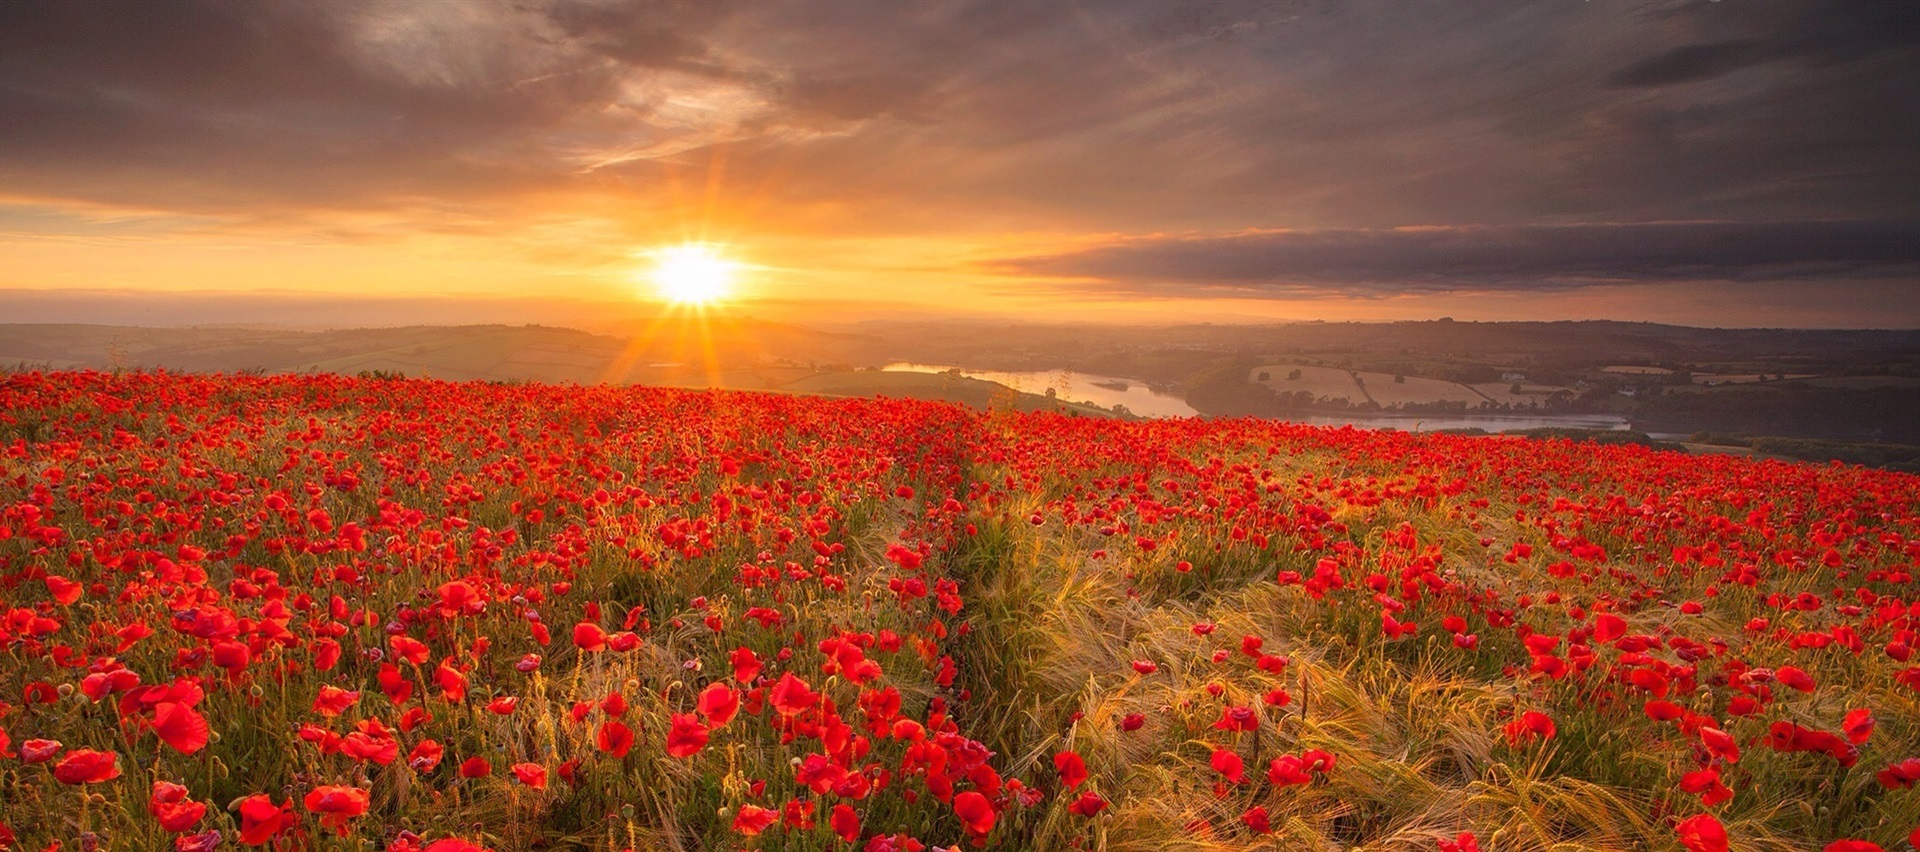
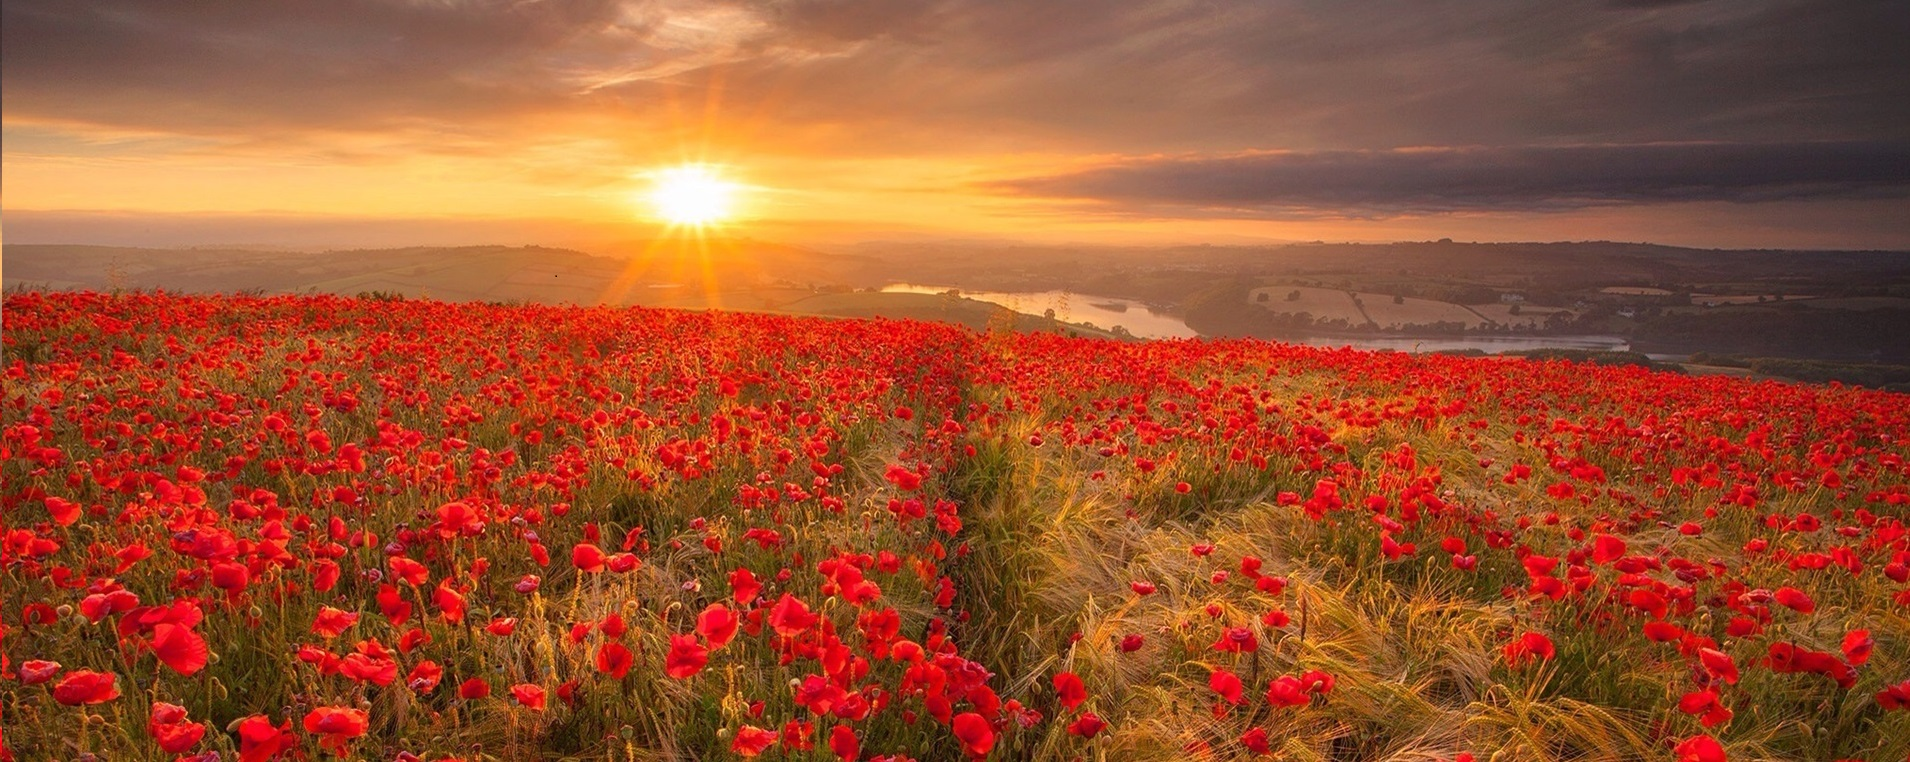
updated

diff --git a/side1.html b/side1.html
@@ -27,12 +27,16 @@
         z-index: 3;
         right: 2%;
     }
+    body {
+        overflow-y: hidden; /* Hide vertical scrollbar */
+        overflow-x: hidden; /* Hide horizontal scrollbar */
+    }
 </style>
 <body>
 
 <!-- Header -->
-<header class="w3-display-container w3-content w3-wide" style="max-width:1500px;" id="home">
-    <img class="w3-image" src="/res/red.jpg" alt="Architecture" width="1500" height="400">
+<header class="w3-display-container w3-content w3-wide" style="max-width:100%;" id="home">
+    <img class="w3-image" src="/res/red.jpg" alt="Architecture" style="width:100%;">
     <div class="w3-display-middle w3-margin-top w3-center">
         <h1 class="w3-xxlarge w3-text-white"><b>Ny med diabetes?</b></h1>
         <h2 class="w3-xxlarge w3-text-white">
@@ -43,11 +47,10 @@
 
 <!-- Navbar (sit on top) -->
 <div class="w3-top">
-    <div class="w3-bar w3-wide w3-padding w3-card"  style="background-color: #DD020E">
-        <a href="#home" class="w3-bar-item w3-button"><b>P2</b> DTU DEMO</a>
+    <div class="w3-bar w3-wide w3-padding w3-card"  style="background-color: #FFFFFF; opacity: 0.9;">
+        <a href="index.html" class="w3-bar-item w3-button" style="max-width:12%; opacity: 1;"><img  src="/res/red.png" style="width:25%">    DTU DEMO</a>
         <!-- Float links to the right. Hide them on small screens -->
         <div class="w3-right w3-hide-small">
-            <a href="index.html" class="w3-bar-item w3-button">Home</a>
             <a href="side1.html" class="w3-bar-item w3-button">Ny med diabetes</a>
             <a href="side2.html" class="w3-bar-item w3-button">Inspiration</a>
             <a href="side3.html" class="w3-bar-item w3-button">Mere viden</a>
@@ -61,56 +64,58 @@
         <h3 class="w3-border-bottom w3-border-light-grey w3-padding-16">Diabetesforeningens videoer</h3>
     </div>
 
-    <div class="w3-row-padding w3-grayscale">
+    <div class="w3-row-padding">
         <div class="w3-col l3 m6 w3-margin-bottom">
             <img src="/res/side1vids/1.jpg" alt="John" style="width:100%">
             <h3>Hvad er diabetes?</h3>
             <p>Phasellus eget enim eu lectus faucibus vestibulum. Suspendisse sodales pellentesque elementum.</p>
-            <p><button class="w3-button w3-light-grey w3-block">Contact</button></p>
+            <a href="indholdExample.html">
+                <p><button class="w3-button w3-block" style="background-color: #DD020E;color: #FFFFFF;">Se mere</button></p>
+            </a>
         </div>
         <div class="w3-col l3 m6 w3-margin-bottom">
             <img src="/res/side1vids/2.jpg" alt="Jane" style="width:100%">
             <h3>Blodsukker måling</h3>
             <p>Phasellus eget enim eu lectus faucibus vestibulum. Suspendisse sodales pellentesque elementum.</p>
-            <p><button class="w3-button w3-light-grey w3-block">Contact</button></p>
+            <p><button class="w3-button w3-block" style="background-color: #DD020E;color: #FFFFFF;">Se mere</button></p>
         </div>
         <div class="w3-col l3 m6 w3-margin-bottom">
             <img src="/res/side1vids/3.jpg" alt="Mike" style="width:100%">
             <h3>Hvordan bruger jeg apperatet?</h3>
             <p>Phasellus eget enim eu lectus faucibus vestibulum. Suspendisse sodales pellentesque elementum.</p>
-            <p><button class="w3-button w3-light-grey w3-block">Contact</button></p>
+            <p><button class="w3-button w3-block" style="background-color: #DD020E;color: #FFFFFF;">Se mere</button></p>
         </div>
         <div class="w3-col l3 m6 w3-margin-bottom">
             <img src="/res/side1vids/4.jpg" alt="Dan" style="width:89%">
             <h3>Kost & blodsukker</h3>
             <p>Phasellus eget enim eu lectus faucibus vestibulum. Suspendisse sodales pellentesque elementum.</p>
-            <p><button class="w3-button w3-light-grey w3-block">Contact</button></p>
+            <p><button class="w3-button w3-block" style="background-color: #DD020E;color: #FFFFFF;">Se mere</button></p>
         </div>
     </div>
-    <div class="w3-row-padding w3-grayscale">
+    <div class="w3-row-padding">
         <div class="w3-col l3 m6 w3-margin-bottom">
             <img src="/res/side1vids/5.jpg" alt="John" style="width:100%">
             <h3>Motion og blodsukker</h3>
             <p>Phasellus eget enim eu lectus faucibus vestibulum. Suspendisse sodales pellentesque elementum.</p>
-            <p><button class="w3-button w3-light-grey w3-block">Contact</button></p>
+            <p><button class="w3-button w3-block" style="background-color: #DD020E;color: #FFFFFF;">Se mere</button></p>
         </div>
         <div class="w3-col l3 m6 w3-margin-bottom">
             <img src="/res/side1vids/6.jpg" alt="Jane" style="width:100%">
             <h3>Blodsukker svingninger</h3>
             <p>Phasellus eget enim eu lectus faucibus vestibulum. Suspendisse sodales pellentesque elementum.</p>
-            <p><button class="w3-button w3-light-grey w3-block">Contact</button></p>
+            <p><button class="w3-button w3-block" style="background-color: #DD020E;color: #FFFFFF;">Se mere</button></p>
         </div>
         <div class="w3-col l3 m6 w3-margin-bottom">
             <img src="/res/side1vids/7.jpg" alt="Mike" style="width:100%">
             <h3>Søvn og blodsukker</h3>
             <p>Phasellus eget enim eu lectus faucibus vestibulum. Suspendisse sodales pellentesque elementum.</p>
-            <p><button class="w3-button w3-light-grey w3-block">Contact</button></p>
+            <p><button class="w3-button w3-block" style="background-color: #DD020E;color: #FFFFFF;">Se mere</button></p>
         </div>
         <div class="w3-col l3 m6 w3-margin-bottom">
             <img src="/res/side1vids/8.jpg" alt="Dan" style="width:89%">
             <h3>Vejen frem</h3>
             <p>Phasellus eget enim eu lectus faucibus vestibulum. Suspendisse sodales pellentesque elementum.</p>
-            <p><button class="w3-button w3-light-grey w3-block">Contact</button></p>
+            <p><button class="w3-button w3-block" style="background-color: #DD020E;color: #FFFFFF;">Se mere</button></p>
         </div>
     </div>
     <!-- End page content -->
@@ -125,26 +130,26 @@
     <div class="w3-row-padding">
         <div class="w3-col l3 m6 w3-margin-bottom">
             <div class="w3-display-container">
-                <div class="w3-display-topleft w3-black w3-padding">10 år med diabetes</div>
-                <img src="/w3images/house2.jpg" alt="House" style="width:99%">
+                <div class="w3-display-topleft w3-padding" style="background-color: #DD020E;color: #FFFFFF;">10 år med diabetes</div>
+                <img src="/res/inspiration/i1.jpg" alt="House" style="width:80%">
             </div>
         </div>
         <div class="w3-col l3 m6 w3-margin-bottom">
             <div class="w3-display-container">
-                <div class="w3-display-topleft w3-black w3-padding">Diabetes i fællesskab</div>
-                <img src="/w3images/house5.jpg" alt="House" style="width:99%">
+                <div class="w3-display-topleft w3-padding" style="background-color: #DD020E;color: #FFFFFF;">Diabetes i fællesskab</div>
+                <img src="/res/inspiration/i2.jpg" alt="House" style="width:99%">
             </div>
         </div>
         <div class="w3-col l3 m6 w3-margin-bottom">
             <div class="w3-display-container">
-                <div class="w3-display-topleft w3-black w3-padding">Du er ikke alene</div>
-                <img src="/w3images/house4.jpg" alt="House" style="width:99%">
+                <div class="w3-display-topleft w3-padding" style="background-color: #DD020E;color: #FFFFFF;">Du er ikke alene</div>
+                <img src="/res/inspiration/i3.jpg" alt="House" style="width:99%">
             </div>
         </div>
         <div class="w3-col l3 m6 w3-margin-bottom">
             <div class="w3-display-container">
-                <div class="w3-display-topleft w3-black w3-padding">Min rejse gennem diabetes</div>
-                <img src="/w3images/house3.jpg" alt="House" style="width:99%">
+                <div class="w3-display-topleft w3-padding" style="background-color: #DD020E;color: #FFFFFF;">Min rejse gennem diabetes</div>
+                <img src="/res/inspiration/i4.jpg" alt="House" style="width:99%">
             </div>
         </div>
     </div>
@@ -163,61 +168,58 @@
             <img class="imgA1" src="/res/blod.png" alt="John" style="width:100%">
             <h3>Intro forløb med blodsukker måling</h3>
             <p>Phasellus eget enim eu lectus faucibus vestibulum. Suspendisse sodales pellentesque elementum.</p>
-            <p><button class="w3-button w3-light-grey w3-block">Contact</button></p>
+            <p><button class="w3-button w3-block" style="background-color: #DD020E;color: #FFFFFF;">Contact</button></p>
         </div>
         <div class="w3-col l3 m6 w3-margin-bottom" id="parent">
             <img class="imgB1" src="/res/red.png" alt="John" style="width:20%">
             <img src="/res/diafocus.png" alt="Jane" style="width:100%">
             <h3>Anbefalede apps</h3>
             <p>Phasellus eget enim eu lectus faucibus vestibulum. Suspendisse sodales pellentesque elementum.</p>
-            <p><button class="w3-button w3-light-grey w3-block">Contact</button></p>
+            <p><button class="w3-button w3-block" style="background-color: #DD020E;color: #FFFFFF;">Contact</button></p>
         </div>
         <div class="w3-col l3 m6 w3-margin-bottom" id="parent">
             <img class="imgB1" src="/res/red.png" alt="John" style="width:20%">
             <img src="/res/webinar.jpg" alt="Mike" style="width:100%">
             <h3>Webinar</h3>
             <p>Phasellus eget enim eu lectus faucibus vestibulum. Suspendisse sodales pellentesque elementum.</p>
-            <p><button class="w3-button w3-light-grey w3-block">Contact</button></p>
+            <p><button class="w3-button w3-block" style="background-color: #DD020E;color: #FFFFFF;">Contact</button></p>
         </div>
         <div class="w3-col l3 m6 w3-margin-bottom" id="parent">
             <img class="imgB1" src="/res/red.png" alt="John" style="width:20%">
             <img src="/res/kort.jpg" alt="Dan" style="width:100%">
             <h3>Oversigt over lokale tilbud</h3>
             <p>Phasellus eget enim eu lectus faucibus vestibulum. Suspendisse sodales pellentesque elementum.</p>
-            <p><button class="w3-button w3-light-grey w3-block">Contact</button></p>
+            <p><button class="w3-button w3-block" style="background-color: #DD020E;color: #FFFFFF;">Contact</button></p>
         </div>
         <div class="w3-col l3 m6 w3-margin-bottom" id="parent">
             <img class="imgB1" src="/res/red.png" alt="John" style="width:20%">
             <img src="/res/mentor.jpg" alt="Dan" style="width:100%">
             <h3>Mentor ordningen</h3>
             <p>Phasellus eget enim eu lectus faucibus vestibulum. Suspendisse sodales pellentesque elementum.</p>
-            <p><button class="w3-button w3-light-grey w3-block">Contact</button></p>
+            <p><button class="w3-button w3-block" style="background-color: #DD020E;color: #FFFFFF;">Contact</button></p>
         </div>
         <div class="w3-col l3 m6 w3-margin-bottom" id="parent">
             <img class="imgB1" src="/res/red.png" alt="John" style="width:20%">
             <img src="/res/Untitled2.png" alt="Dan" style="width:100%">
             <h3>Rådvigningen</h3>
             <p>Phasellus eget enim eu lectus faucibus vestibulum. Suspendisse sodales pellentesque elementum.</p>
-            <p><button class="w3-button w3-light-grey w3-block">Contact</button></p>
+            <p><button class="w3-button w3-block" style="background-color: #DD020E;color: #FFFFFF;">Contact</button></p>
         </div>
         <div class="w3-col l3 m6 w3-margin-bottom" id="parent">
             <img class="imgB1" src="/res/red.png" alt="John" style="width:20%">
-            <img src="/w3images/team4.jpg" alt="Dan" style="width:100%">
+            <img src="/res/red.png" alt="Dan" style="width:100%">
             <h3>Andre resourcer</h3>
             <p>Phasellus eget enim eu lectus faucibus vestibulum. Suspendisse sodales pellentesque elementum.</p>
-            <p><button class="w3-button w3-light-grey w3-block">Contact</button></p>
+            <p><button class="w3-button w3-block" style="background-color: #DD020E;color: #FFFFFF;">Contact</button></p>
         </div>
     </div>
     <!-- End page content -->
 </div>
 
 
-
-
-
 <!-- Footer -->
-<footer class="w3-center w3-black w3-padding-16">
-    <p>Alternativ introforløb diabetes koncept.</p>
+<footer class="w3-center w3-padding-16" style="background-color: #DD020E">
+    <p style="color: #FFFFFF;font-weight: bold;">Alternativ introforløb diabetes koncept.</p>
 </footer>
 
 </body>

diff --git a/indholdExample.html b/indholdExample.html
@@ -1,0 +1,87 @@
+<!DOCTYPE html>
+<html xmlns="http://www.w3.org/1999/html">
+<title>W3.CSS Template</title>
+<meta charset="UTF-8">
+<meta name="viewport" content="width=device-width, initial-scale=1">
+<link rel="stylesheet" href="https://www.w3schools.com/w3css/4/w3.css">
+<style>
+    .third {
+        width: 33%;
+    }
+
+
+
+    .column {
+        float: left;
+        width: 33.33%;
+        padding: 10px;
+        height: 300px; /* Should be removed. Only for demonstration */
+    }
+
+    #parent{position: relative}
+    .imgA1 {
+        z-index: 1;
+    }
+    .imgB1 {
+        position: absolute;
+        z-index: 3;
+        right: 44%;
+        top : 40%
+    }
+</style>
+<body>
+
+<!-- Navbar (sit on top) -->
+<div class="w3-top">
+    <div class="w3-bar w3-wide w3-padding w3-card"  style="background-color: #FFFFFF; opacity: 0.9;">
+        <a href="index.html" class="w3-bar-item w3-button" style="max-width:12%; opacity: 1;"><img  src="/res/red.png" style="width:25%">    DTU DEMO</a>
+        <!-- Float links to the right. Hide them on small screens -->
+        <div class="w3-right w3-hide-small">
+            <a href="side1.html" class="w3-bar-item w3-button">Ny med diabetes</a>
+            <a href="side2.html" class="w3-bar-item w3-button">Inspiration</a>
+            <a href="side3.html" class="w3-bar-item w3-button">Mere viden</a>
+        </div>
+    </div>
+</div>
+
+<div style="height: 40px;">&nbsp;</div>
+<!-- About Section -->
+<div class="w3-content w3-padding" style="max-width:1000px">
+    <div class="w3-container w3-padding-32" id="about">
+        <h3 class="w3-border-bottom w3-border-light-grey w3-padding-16">Intro forløb med blodsukker måling</h3>
+        <img class="imgB1" src="/res/side1vids/play.png" alt="John" style="width:10%">
+        <img class="imgA1" src="/res/side1vids/1.jpg" alt="John" style="width:100%">
+        <h3 class="w3-border-bottom w3-border-light-grey w3-padding-16">Information om blodsukker</h3>
+        <p>Lorem ipsum dolor sit amet, consectetur adipiscing elit, sed do eiusmod tempor incididunt ut labore et dolore magna aliqua. Ut enim ad minim veniam, quis nostrud exercitation ullamco laboris nisi ut aliquip ex ea commodo consequat. Excepteur sint
+            occaecat cupidatat non proident, sunt in culpa qui officia deserunt mollit anim id est laborum consectetur adipiscing elit, sed do eiusmod tempor incididunt ut labore et dolore magna aliqua. Ut enim ad minim veniam, quis nostrud exercitation ullamco
+            laboris nisi ut aliquip ex ea commodo consequat.
+        </p>
+        </br>
+        <p>Lorem ipsum dolor sit amet, consectetur adipiscing elit, sed do eiusmod tempor incididunt ut labore et dolore magna aliqua. Ut enim ad minim veniam, quis nostrud exercitation ullamco laboris nisi ut aliquip ex ea commodo consequat. Excepteur sint
+            occaecat cupidatat non proident, sunt in culpa qui officia deserunt mollit anim id est laborum consectetur adipiscing elit, sed do eiusmod tempor incididunt ut labore et dolore magna aliqua. Ut enim ad minim veniam, quis nostrud exercitation ullamco
+            laboris nisi ut aliquip ex ea commodo consequat.
+        </p>
+        </br>
+        <p>Lorem ipsum dolor sit amet, consectetur adipiscing elit, sed do eiusmod tempor incididunt ut labore et dolore magna aliqua. Ut enim ad minim veniam, quis nostrud exercitation ullamco laboris nisi ut aliquip ex ea commodo consequat. Excepteur sint
+            occaecat cupidatat non proident, sunt in culpa qui officia deserunt mollit anim id est laborum consectetur adipiscing elit, sed do eiusmod tempor incididunt ut labore et dolore magna aliqua. Ut enim ad minim veniam, quis nostrud exercitation ullamco
+            laboris nisi ut aliquip ex ea commodo consequat.
+        </p>
+        <h3 class="w3-border-bottom w3-border-light-grey w3-padding-16">Andre resourcer</h3>
+        <p>Lorem ipsum dolor sit amet, consectetur adipiscing elit, sed do eiusmod tempor incididunt ut labore et dolore magna aliqua. Ut enim ad minim veniam, quis nostrud exercitation ullamco laboris nisi ut aliquip ex ea commodo consequat. Excepteur sint
+            occaecat cupidatat non proident, sunt in culpa qui officia deserunt mollit anim id est laborum consectetur adipiscing elit, sed do eiusmod tempor incididunt ut labore et dolore magna aliqua. Ut enim ad minim veniam, quis nostrud exercitation ullamco
+            laboris nisi ut aliquip ex ea commodo consequat.
+        </p>
+
+        <a href="https://diabetes.dk/diabetes-2/fakta-om-type-2/blodsukker-og-maling">Blodsukker og måling</a></br>
+        <a href="https://www.diabetes2danmark.dk/">Diabetes 2 Danmark Facebook</a></br>
+        <a href="https://www.sundhed.dk/borger/patienthaandbogen/hormoner-og-stofskifte/illustrationer/animationer/diabetes/">Sunhed.dk</a></br>
+    </div>
+</div>
+
+<!-- Footer -->
+<footer class="w3-center w3-black w3-padding-16">
+    <p>Alternativ introforløb diabetes koncept.</p>
+</footer>
+
+</body>
+</html>

diff --git a/side2.html b/side2.html
@@ -20,11 +20,10 @@
 
 <!-- Navbar (sit on top) -->
 <div class="w3-top">
-    <div class="w3-bar w3-wide w3-padding w3-card"  style="background-color: #ebd934">
-        <a href="#home" class="w3-bar-item w3-button"><b>P2</b> DTU DEMO</a>
+    <div class="w3-bar w3-wide w3-padding w3-card"  style="background-color: #FFFFFF; opacity: 0.9;">
+        <a href="index.html" class="w3-bar-item w3-button" style="max-width:12%; opacity: 1;"><img  src="/res/yellow.png" style="width:25%">    DTU DEMO</a>
         <!-- Float links to the right. Hide them on small screens -->
         <div class="w3-right w3-hide-small">
-            <a href="index.html" class="w3-bar-item w3-button">Home</a>
             <a href="side1.html" class="w3-bar-item w3-button">Ny med diabetes</a>
             <a href="side2.html" class="w3-bar-item w3-button">Inspiration</a>
             <a href="side3.html" class="w3-bar-item w3-button">Mere viden</a>

diff --git a/side3.html b/side3.html
@@ -20,11 +20,10 @@
 
 <!-- Navbar (sit on top) -->
 <div class="w3-top">
-    <div class="w3-bar w3-wide w3-padding w3-card"  style="background-color: #71eb34">
-        <a href="#home" class="w3-bar-item w3-button"><b>P2</b> DTU DEMO</a>
+    <div class="w3-bar w3-wide w3-padding w3-card"  style="background-color: #FFFFFF; opacity: 0.9;">
+        <a href="index.html" class="w3-bar-item w3-button" style="max-width:12%; opacity: 1;"><img  src="/res/green.png" style="width:25%">    DTU DEMO</a>
         <!-- Float links to the right. Hide them on small screens -->
         <div class="w3-right w3-hide-small">
-            <a href="index.html" class="w3-bar-item w3-button">Home</a>
             <a href="side1.html" class="w3-bar-item w3-button">Ny med diabetes</a>
             <a href="side2.html" class="w3-bar-item w3-button">Inspiration</a>
             <a href="side3.html" class="w3-bar-item w3-button">Mere viden</a>

diff --git a/index.html b/index.html
@@ -20,11 +20,10 @@
 
 <!-- Navbar (sit on top) -->
 <div class="w3-top">
-    <div class="w3-bar w3-white w3-wide w3-padding w3-card">
-        <a href="#home" class="w3-bar-item w3-button"><b>P2</b> DTU DEMO</a>
+    <div class="w3-bar w3-wide w3-padding w3-card"  style="background-color: #FFFFFF; opacity: 0.9;">
+        <a href="index.html" class="w3-bar-item w3-button" style="max-width:12%; opacity: 1;"><img  src="/res/red.png" style="width:25%">    DTU DEMO</a>
         <!-- Float links to the right. Hide them on small screens -->
         <div class="w3-right w3-hide-small">
-            <a href="index.html" class="w3-bar-item w3-button">Home</a>
             <a href="side1.html" class="w3-bar-item w3-button">Ny med diabetes</a>
             <a href="side2.html" class="w3-bar-item w3-button">Inspiration</a>
             <a href="side3.html" class="w3-bar-item w3-button">Mere viden</a>
